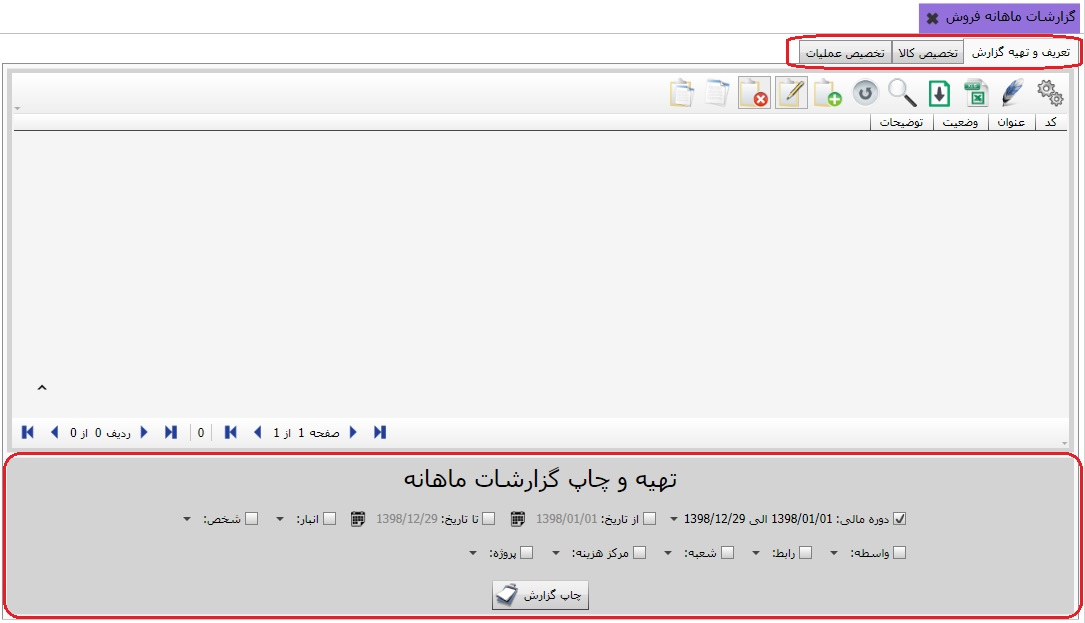
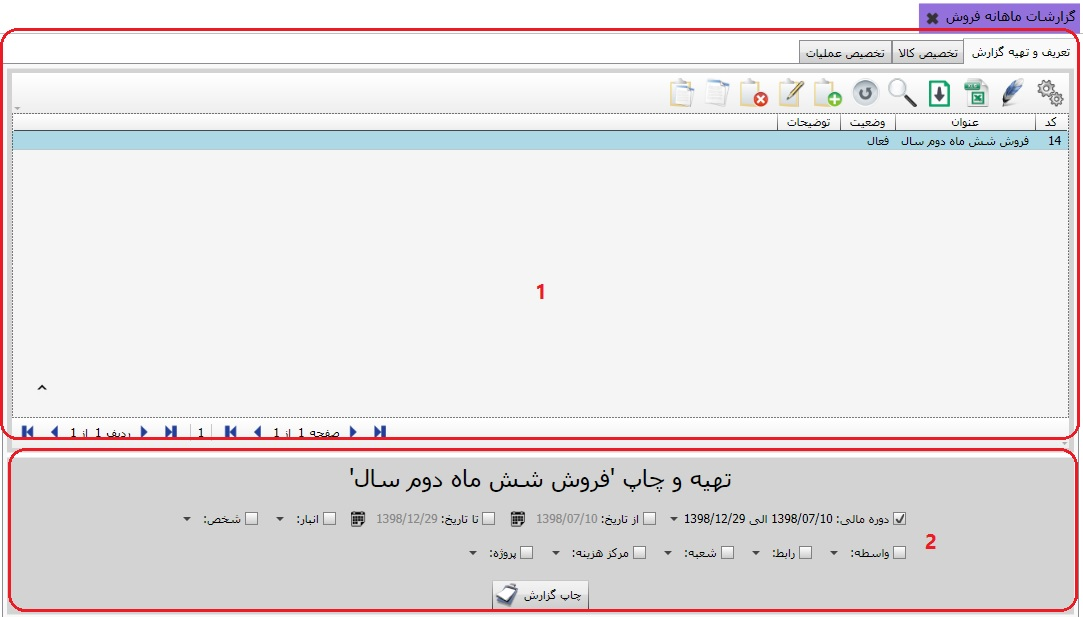
گزارشات ماهانه فروش

Changed region(s): [[0.0, 0.0, 1.0, 1.0], [0.1828, 0.8006, 0.2438, 0.8622], [0.4875, 0.4619, 0.518, 0.4927]]

diff --git a/Help/fa-IR/_06_خرید و فروش/_14_گزارشات ماهانه فروش/Index.html b/Help/fa-IR/_06_خرید و فروش/_14_گزارشات ماهانه فروش/Index.html
@@ -12,10 +12,111 @@
 		<h1> گزارشات ماهانه فروش </h1>
 	</div>
 	<p>
-		نحوه ی تهیه ی گزارش در گزارشات ماهانه فروش درست مثل گزارشات ماتریسی می باشد،
-		لطفا به آن بخش مراجعه فرمایید.
+		نحوه ی تهیه ی گزارش در گزارشات ماهانه
+		فروش درست مثل گزارشات ماتریسی می باشد، با این تفاوت که
+		در این بخش شما می توانید به تفکیک ماهها
+		مقدار، مبلغ و جمع تراکنش فروش هر ماه را مشاهده کنید.
+	</p>
+	<img class="FitPic" src="l1.jpg" />
+	<p>
+		تصویر بالا از دو کادر تشکیل شده است که در زیر به شرح هر کدام می پردازیم :
+		<p>
+			<strong class="title">کادر شماره 1:</strong>
+			این کادر شامل سه تب می باشد، تب اول به
+			تعریف و تهیه ی گزارش اختصاص دارد، برای تعریف و تهیه ی یک گزارش کافی است
+			از نوار ابزار کلید اضافه (F8) را بزنید
+			پنجره ی زیر باز می شود:
+		</p>
 
-		<img class="FitPic" src="l1.jpg" />
+		<img class="FitPic" src="l2.jpg" />
+		<p>
+			کد گزارش به صورت پیش فرض از سوی
+			سیستم انتخاب می شود، عنوان گزارش مورد
+			نظر خود را در فیلد عنوان پر کنید، و کلید تایید را بزنید، حالا به تب دوم از کادر یک بروید:
+		</p>
+		<img class="FitPic" src="l3.jpg" />
+		<p>
+			در تصویر بالا گزارشی که در تب اول تعریف کرده بودید با کادر قرمز رنگ مشخص شده است،
+			در این مرحله ابتدا باید گزارش مورد نظر خود را
+			انتخاب کنید سپس کالای مورد نظر
+			خود را به وسیله ی فلشها به گزارش تخصیص دهید و یا از تخصیص خارج کنید.
+			به تب سوم از کادر یک می رویم:
+		</p>
+		<img class="FitPic" src="l4.jpg" />
+		<p>
+			در این قسمت ابتدا گزارش مورد نظر خود
+			را انتخاب کنید، سپس عملیات مورد نظر را انتخاب کنید، حالا
+			عملیات مورد نظر را با استفاده از فلش راست گرد به سمت راست منتقل کنید
+			و یا با استفاده از فلش چپ گرد از تخصیص خارج کنید.
+
+		</p>
+		<img class="FitPic" src="l5.jpg" />
+		<p>
+			با استفاده از این کلید می توانید تاثیر عملیات بر گزارش را تعیین کنید.
+			در نهایت بعد از این که تنظیمات لازم را در تبهای کادر یک انجام دادید به کادر 
+			 دوم باز میگردیم، کادر دوم تشکیل شده از 
+			یک سری فیلتر می باشد که بعد از تعیین کردن آنها با کلیک کردن بر روی چاپ گزارش 
+			می توانید گزارش مورد نظرتان را تعیین کنید.
+		</P>
+
+
+
+
+
+	</p>
+
+
+
+
+
+
+
+
+
+
+
+
+
+
+
+
+
+
+
+	</p>
+
+
+
+
+
+
+
+
+
+
+
+
+
+
+
+
+
+
+
+
+
+
+
+
+
+
+
+
+
+
+
+
+
 
 </body>
 

diff --git a/Help/fa-IR/_06_خرید و فروش/_01_مدیریت عملیات خرید و فروش/Index.html b/Help/fa-IR/_06_خرید و فروش/_01_مدیریت عملیات خرید و فروش/Index.html
@@ -133,9 +133,8 @@
 	</p>
 	<img class="FitPic" src="l4.jpg" />
 	<p>
-		در تصویر بالا عنوان پارامتر را در فیلد عنوان تایپ
-		کنید،
-		پارامتر تخفیف در حال ایجاد است. در فیلد نوع، نوع پارامتر مورد نظر را وارد نمایید که در اینجا
+		در تصویر بالا در فیلد عنوان برای مثال تخفیف را تایپ کنید،
+		 در فیلد نوع، نوع پارامتر مورد نظر را وارد نمایید که در اینجا
 		پارامتر تخفیف از نوع پول است.
 	</p>
 	<img class="NormalPic" src="n5.jpg" />
